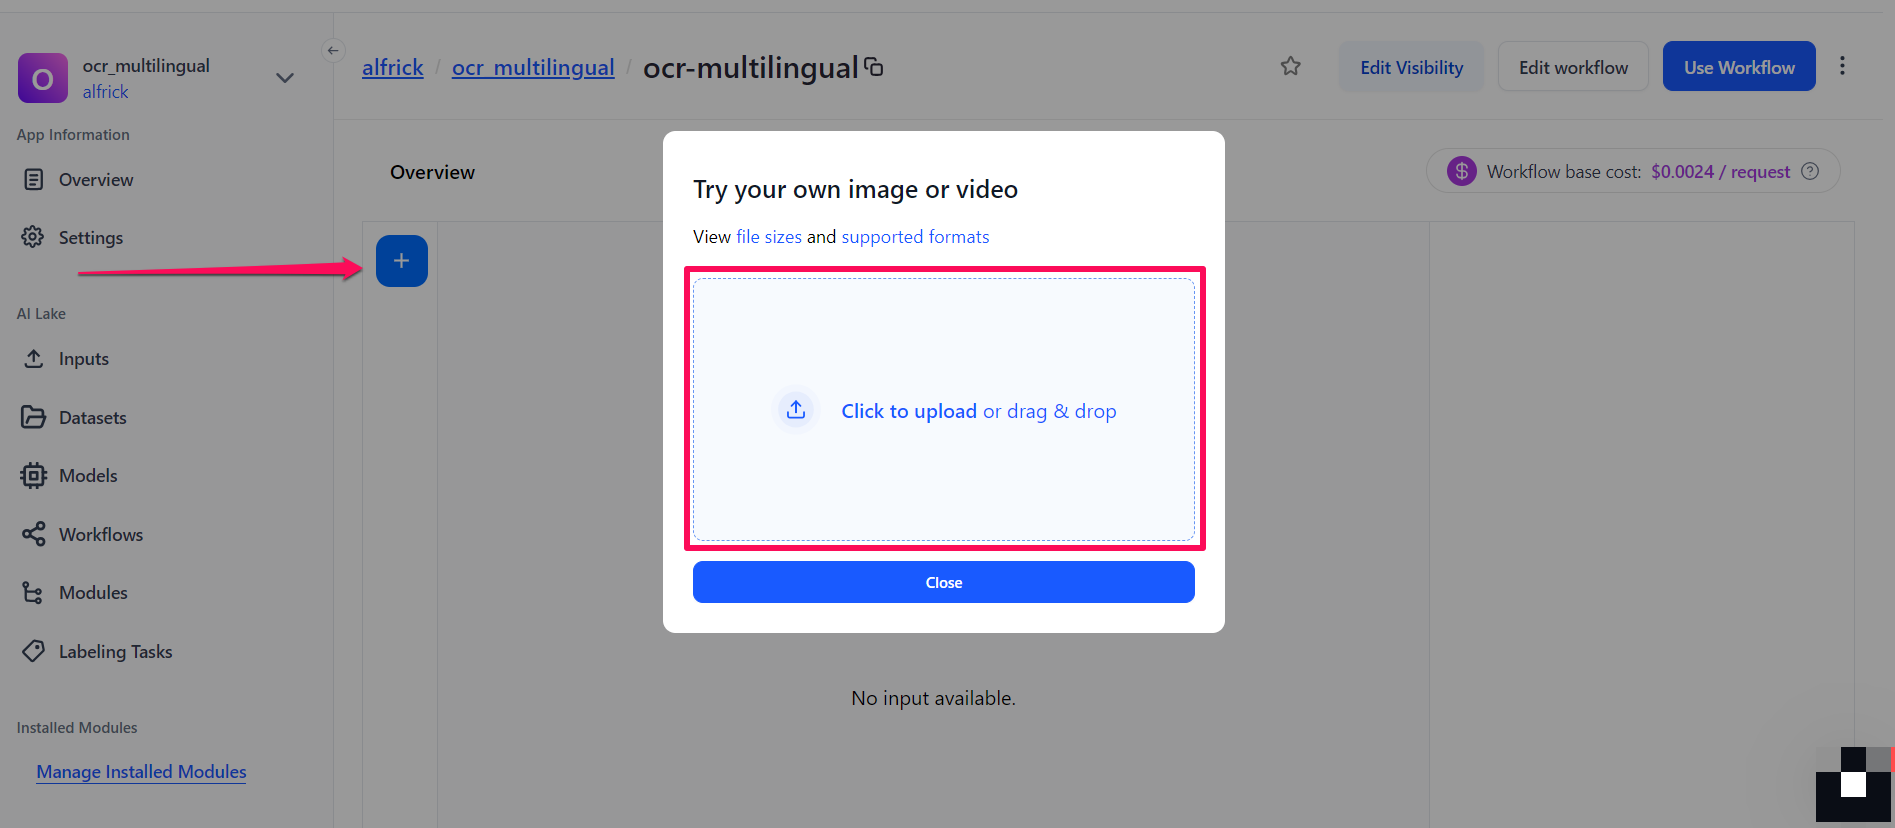
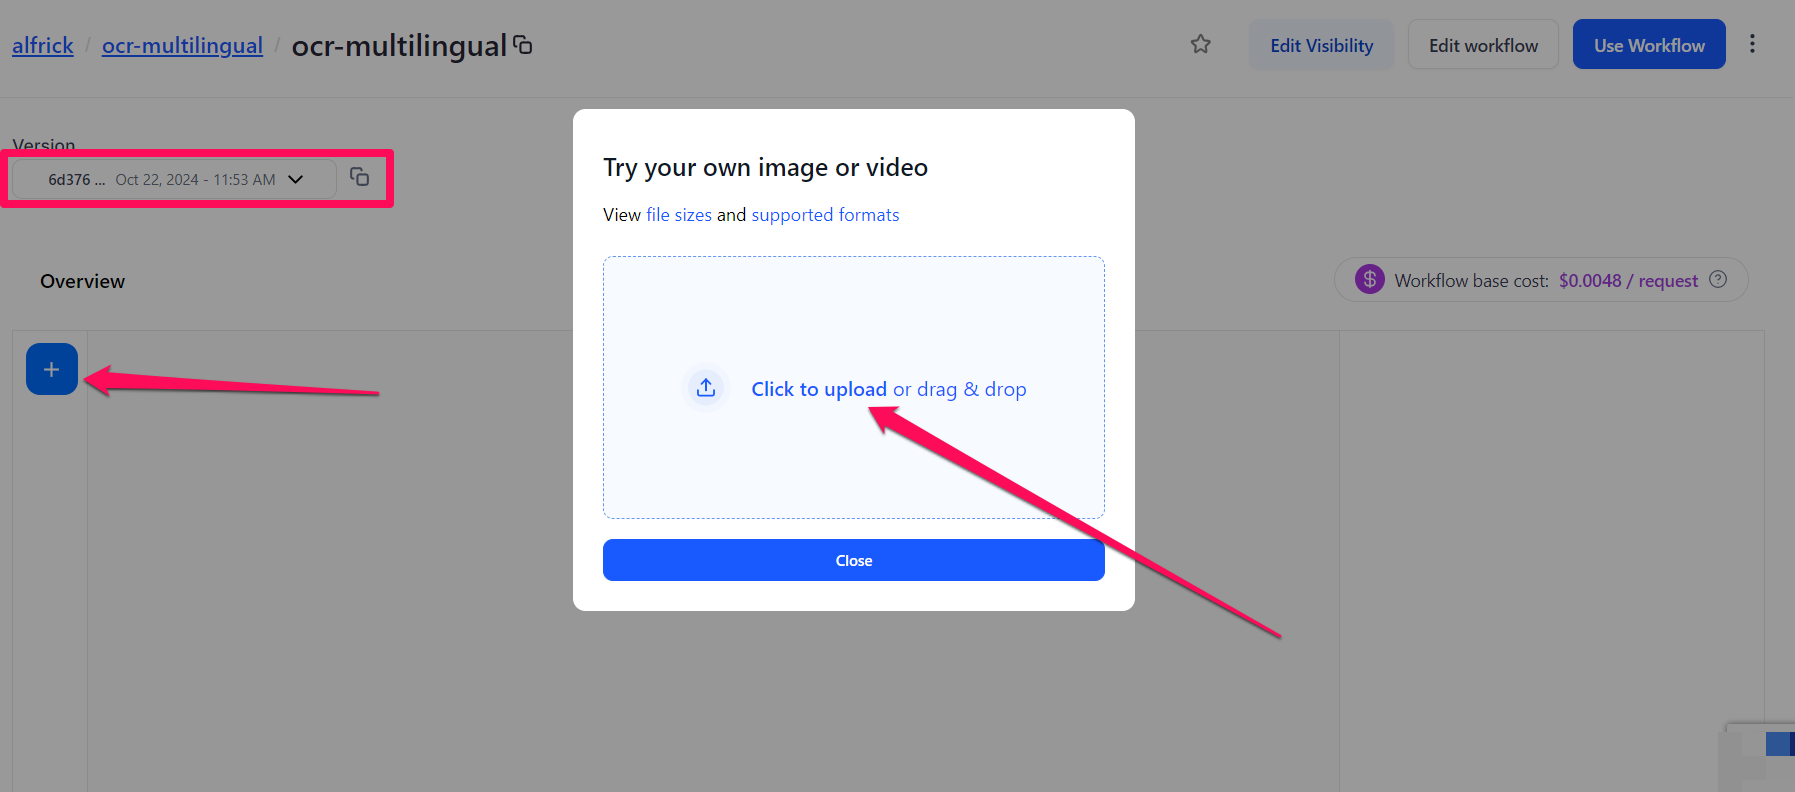
updated with workflow versioning

diff --git a/docs/portal-guide/agent-system-operators/rag-prompter.md b/docs/portal-guide/agent-system-operators/rag-prompter.md
@@ -66,7 +66,7 @@ Our intention is to search an app containing textual data for relevant informati
 
 [Click here](https://docs.clarifai.com/clarifai-basics/applications/create-an-application/#create-an-application-on-the-portal) to learn how to create an application on the Clarifai portal.
 
-:::caution Base Workflow
+:::info Base Workflow
 
 When creating the application, select the **Text/Document** option as the primary input type. And in the collapsible **Advanced Settings** field, select an embeddings workflow, such as the [baai-general-embedding-base-en](https://clarifai.com/clarifai/main/workflows/baai-general-embedding-base-en) as the [base workflow](https://docs.clarifai.com/portal-guide/workflows/base-workflows/). The base workflow will convert the uploaded data into indexed vectors, which makes them searchable – as explained earlier. 
 
@@ -128,7 +128,7 @@ To customize your search experience, you can:
 
 - Modify `max_results` to specify the maximum number of relevant search results included in the prompt.
 
-To finalize creating your workflow, connect the **rag-prompter** to a text-to-text node, and choose a text-to-text LLM from the Clarifai Community, such as the [Mistral-7B-instruct](https://clarifai.com/mistralai/completion/models/mistral-7B-Instruct).
+To finalize creating your workflow, connect the **rag-prompter** to a text-to-text node, and choose a text-to-text LLM from the Clarifai Community, such as [GPT-4 Turbo](https://clarifai.com/openai/chat-completion/models/gpt-4-turbo).
 
 Then, save your workflow.
 
@@ -155,5 +155,29 @@ Once the workflow has completed processing your input, you'll see the results, s
 As you can see below, the LLM model leveraged the additional context to generate an accurate response to the question. 
 
 ![](/img/others/rag-prompter-2.png)
+
+## How to Edit a RAG Prompter
+
+After creating your RAG Prompter, you can edit it by navigating to its individual page and clicking the **Edit workflow** button in the upper-right section.
+
+![](/img/others/rag-prompter-3.png)
+
+You'll be redirected to the workflow editor page, where you can make any changes needed, such as updating the prompt template text or the `min_score` and `max_results` parameters. 
+
+![](/img/others/rag-prompter-4.png)
+
+Once you've made your changes, click the **Save as new version** button to save the updated RAG Prompter under a new version — without exiting the workflow editor. 
+
+:::note
+
+You can easily switch between different versions of the RAG Prompter by selecting the respective version ID from the left sidebar in the workflow editor.
+
+:::
+
+Note that clicking the **Update Workflow** button creates a new version of your RAG Prompter and exits the workflow editor, redirecting you to its main page.
+
+You can then select the version to use for inferencing. 
+
+![](/img/others/rag-prompter-5.png)
 
 That’s it!

diff --git a/docs/portal-guide/workflows/input-nodes.md b/docs/portal-guide/workflows/input-nodes.md
@@ -116,11 +116,27 @@ Finally, click the **Save Workflow** button to save the workflow. This will save
 
 ![save workflow](/img/community_2/input_nodes_save_workflow.png)
 
-:::tip
+## Edit Workflow
 
-You can edit your workflow at any time by navigating to the **Workflows** listing page and clicking the edit button next to the workflow you wish to modify. This allows you to make changes easily whenever needed.
+After creating your workflow, you can edit it at any time by navigating to its individual page and clicking the **Edit workflow** button in the upper-right section. 
+
+This allows you to make changes easily whenever needed.
+
+![](/img/community_2/input_nodes_edit_workflow_2.png)
+
+For example, to add a `text-to-audio` node to your workflow, first locate it in the left sidebar. Drag the node and connect it to the preceding `text-to-text` node. Next, use the search box on the right side of the page to select the specific model you want for the text-to-audio conversion.
+
+![](/img/community_2/input_nodes_edit_workflow_1.png)
+
+Once you've made your changes, click the **Save as new version** button to save the updated workflow under a new version — without exiting the workflow editor. 
+
+:::note
+
+You can easily switch between different versions by selecting the respective version ID from the left sidebar in the workflow editor.
 
 :::
 
+Note that clicking the **Update Workflow** button creates a new version of your workflow and exits the workflow editor, redirecting you to the workflow's main page.
 
+![](/img/community_2/input_nodes_edit_workflow_3.png)
 

diff --git a/docs/portal-guide/workflows/setting-up-a-mesh-workflow.md b/docs/portal-guide/workflows/setting-up-a-mesh-workflow.md
@@ -18,9 +18,11 @@ You can [click here](https://docs.clarifai.com/portal-guide/workflows/input-node
 
 ## Workflow Predict
 
-After creating your workflow, you can start using it to make predictions. For example, the custom workflow we created previously combined two models together. We can use it to extract text from [this image](https://samples.clarifai.com/featured-models/ocr-woman-holding-sold-sign.jpg), and then translate the extracted text into Spanish.
+After creating your workflow, you can start using it to make predictions. 
 
-To do so, go to the workflow's overview page and click the blue "**+**" button. Next, select the **Try your own image or video** option on the modal that appears. The small window that pops up allows you to upload the image.
+For example, let's use the custom workflow we created previously to extract text from [this image](https://samples.clarifai.com/featured-models/ocr-woman-holding-sold-sign.jpg), and then translate the extracted text into Spanish.
+
+To do so, go to the workflow's overview page, select the version you want to use, and click the blue "**+**" button. Next, select the **Try your own image or video** option on the modal that appears. The small window that pops up allows you to upload the image.
 
 ![try your own image or video](/img/community_2/workflow_predict_try_your_own_image.png)
 

diff --git a/docs/sdk/node-api-reference/modules.md b/docs/sdk/node-api-reference/modules.md
@@ -1,4 +1,4 @@
-[clarifai-nodejs](README.md) / Exports
+<!--[clarifai-nodejs](README.md) / Exports-->
 
 # clarifai-nodejs
 
